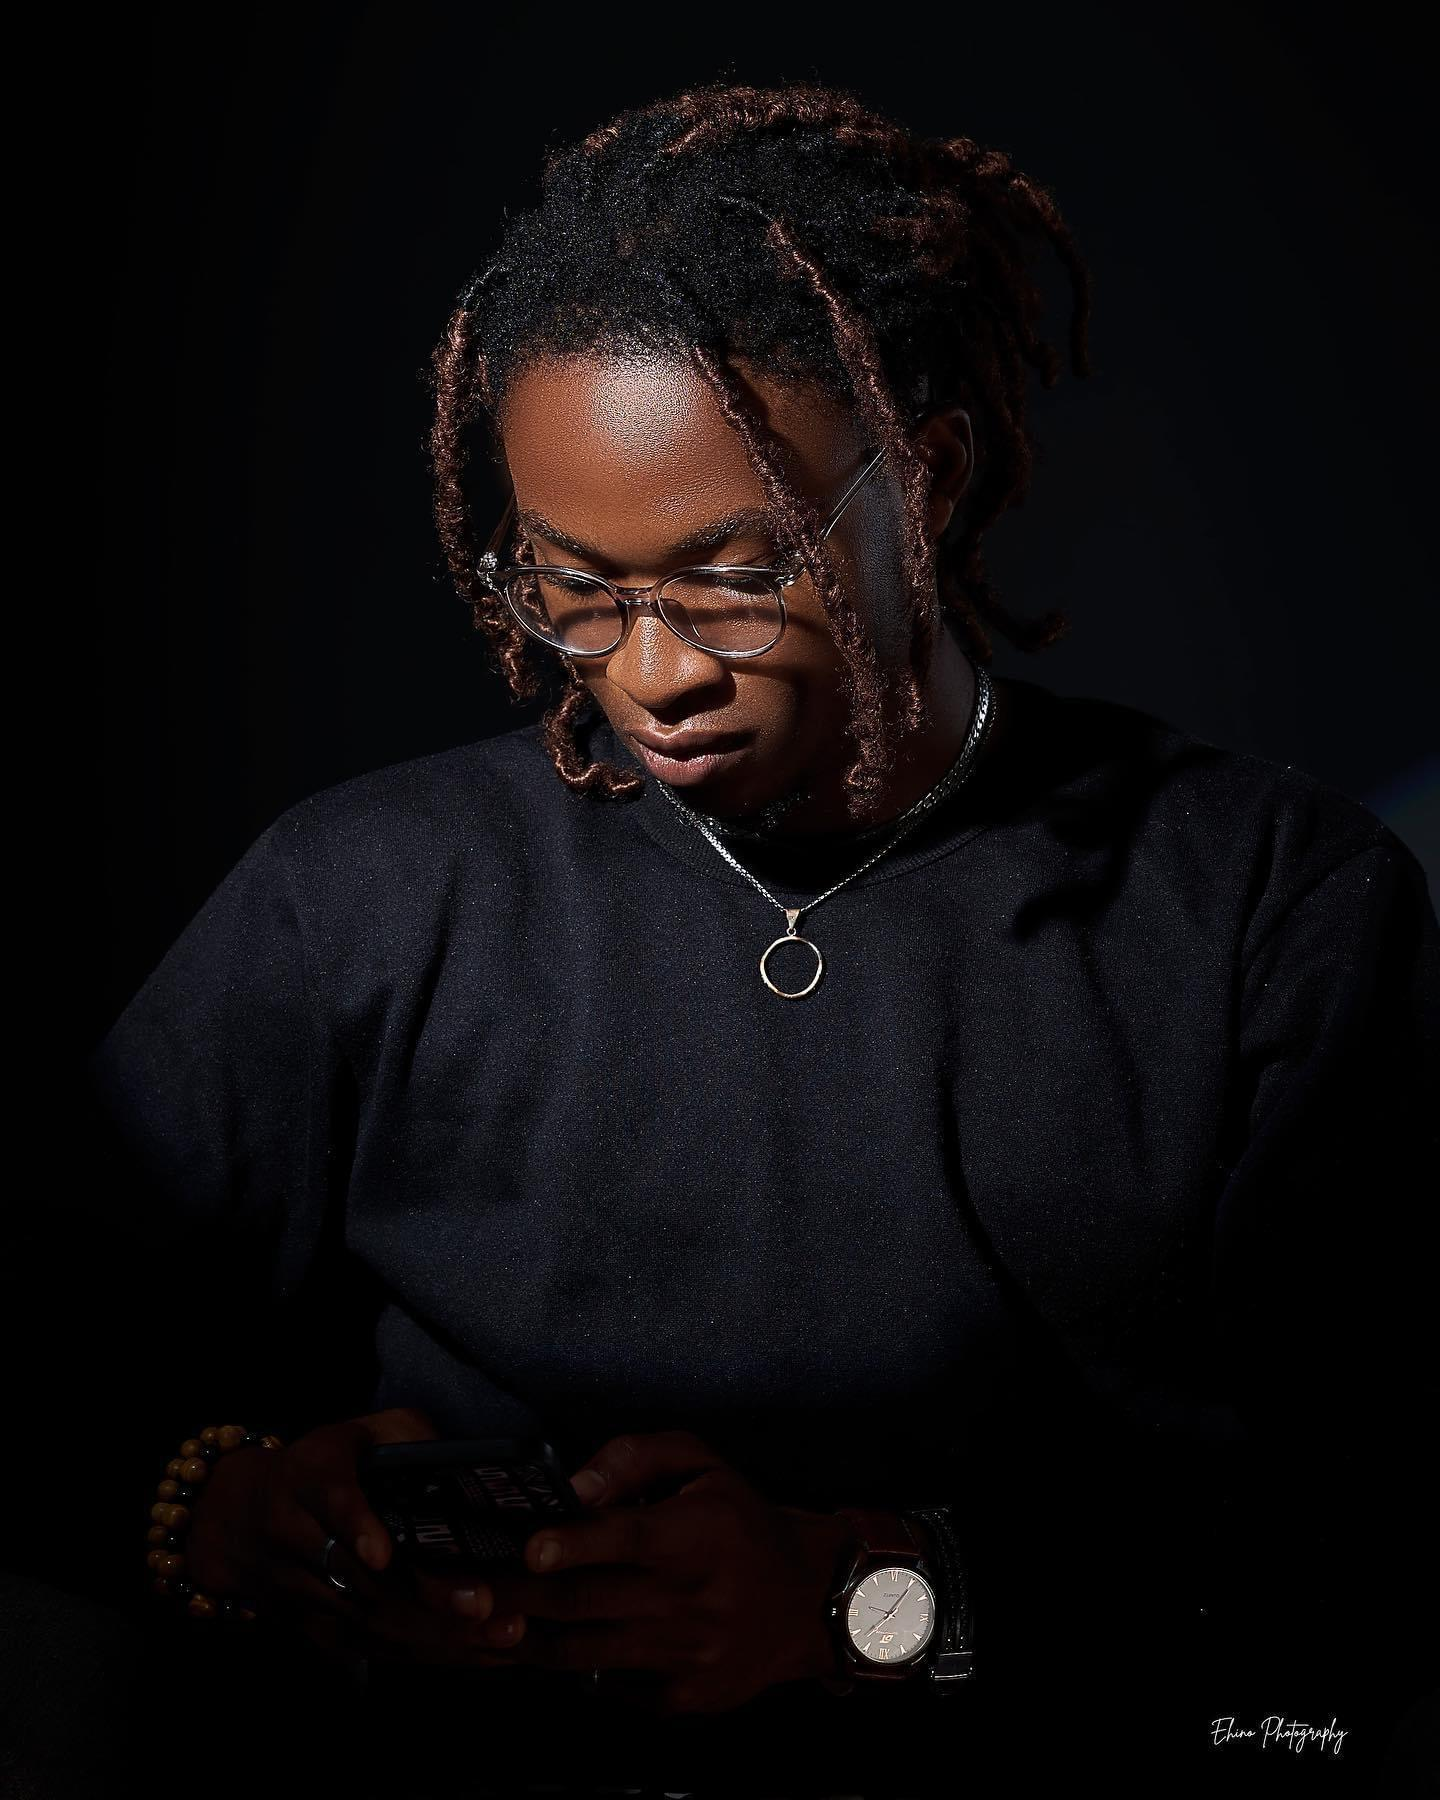
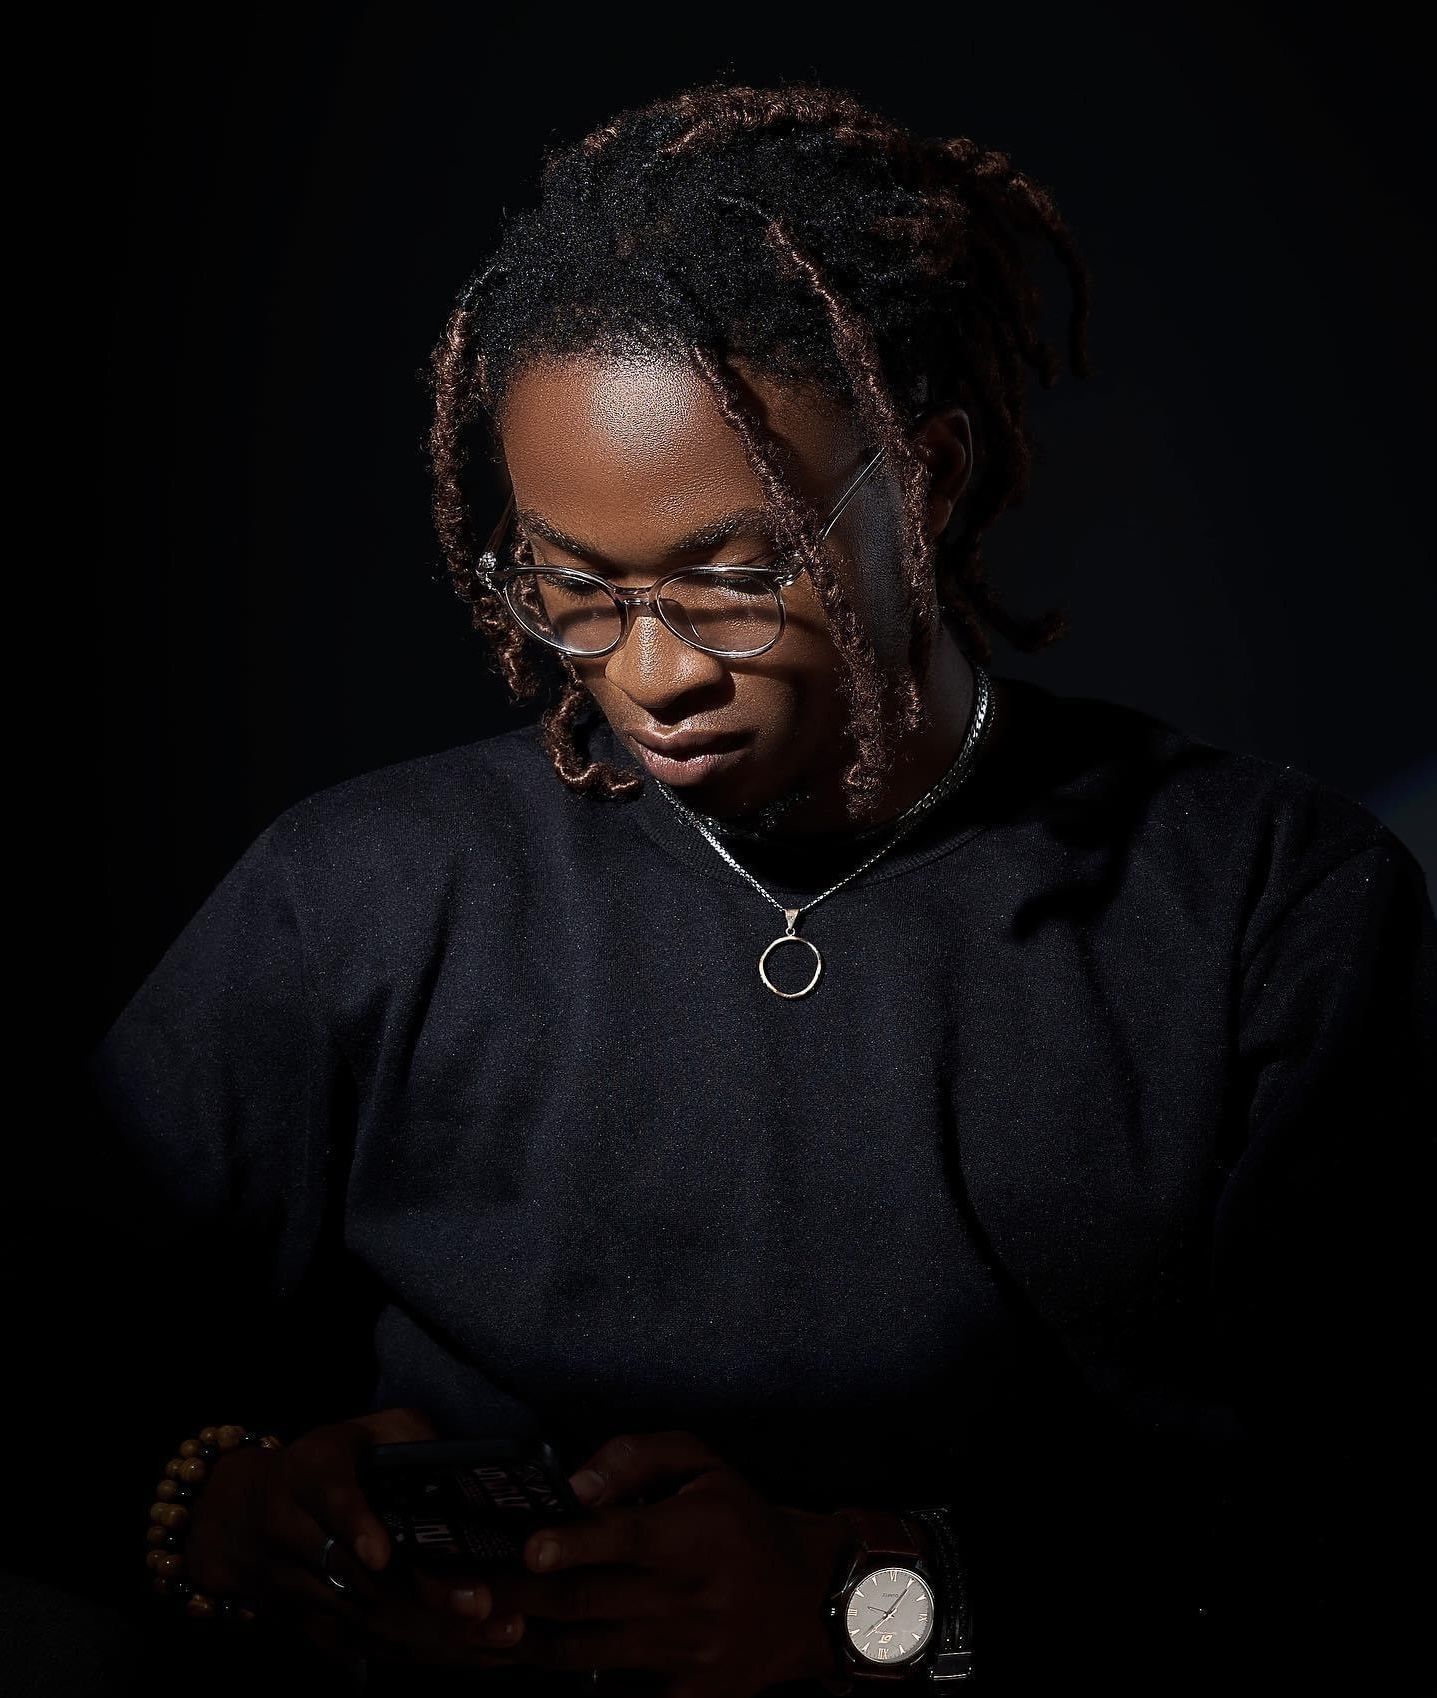
New update

diff --git a/js/portfolio.js b/js/portfolio.js
@@ -2,12 +2,10 @@ const portfolioData = [
   { name: "Abel", tag: "Keyframe & Storyboard", category: "keyframe", image: "assets/Abel Illustration.jpg" },
   { name: "M_ralda", tag: "Keyframe & Storyboard", category: "keyframe", image: "assets/M_ralda Illustration.jpg" },
   { name: "M_ralda", tag: "Keyframe & Storyboard", category: "keyframe", image: "assets/New Keyframe.jpg" },
-  { name: "Xaona", tag: "Keyframe & Storyboard", category: "keyframe", image: "assets/New Keyframe2.jpg" },
-  { name: "Xaona", tag: "Promotional", category: "promotional", image: "assets/New Keyframe2.jpg" },
+  { name: "Jyamelah and Jha'kendr", tag: "Keyframe & Storyboard", category: "keyframe", image: "assets/New Keyframe2.jpg" },
+  { name: "Jyamelah and Jha'kendr", tag: "Promotional", category: "promotional", image: "assets/New Keyframe2.jpg" },
   { name: "M_ralda", tag: "Promotional", category: "promotional", image: "assets/New Keyframe.jpg" },
   { name: "Jyamelah", tag: "Promotional", category: "promotional", image: "assets/Jyamelah- Pin up.jpg" },
-  { name: "All Character", tag: "Book Cover", category: "bookcover", image: "assets/Book.png" },
-  { name: "Iron Verse #4", tag: "Comic Books", category: "comic", image: "assets/Abel Illustration.jpg" },
   { name: "Dailida", tag: "Character Design", category: "character", image: "assets/CharacterDesign 06(Dailida).jpg" },
   { name: "Abel", tag: "Character Design", category: "character", image: "assets/Abel Detailed.jpg" },
   { name: "J'yamelah", tag: "Character Design", category: "character", image: "assets/J'yamelah Detailed.jpg" },
@@ -33,6 +31,14 @@ const lightboxName = document.getElementById('lightboxName');
 const lightboxClose = document.getElementById('lightboxClose');
 const lightboxPrev = document.getElementById('lightboxPrev');
 const lightboxNext = document.getElementById('lightboxNext');
+const galleryGrid = document.getElementById('galleryGrid');
+const galleryEmpty = document.getElementById('galleryEmpty');
+const galleryEmptyBtn = document.getElementById('galleryEmptyBtn');
+
+const emptyStateDisciplines = {
+  bookcover: { discipline: "bookcover", package: "Basic Illustration Package" },
+  comic: { discipline: "comic", package: "Basic Comic Package" }
+};
 
 let visibleIndices = portfolioData.map((_, i) => i);
 let currentPos = 0;
@@ -116,10 +122,20 @@ filterBtns.forEach(btn => {
     const filter = btn.dataset.filter;
     updateVisibleIndices(filter);
 
-    document.querySelectorAll('.gallery-item').forEach(item => {
-      const match = filter === 'all' || item.dataset.category === filter;
-      item.classList.toggle('hidden', !match);
-    });
+    if (emptyStateDisciplines[filter]) {
+      galleryGrid.style.display = 'none';
+      galleryEmpty.classList.add('show');
+      const { discipline, package: pkg } = emptyStateDisciplines[filter];
+      galleryEmptyBtn.href = `start-project.html?discipline=${discipline}&package=${encodeURIComponent(pkg)}`;
+    } else {
+      galleryGrid.style.display = 'grid';
+      galleryEmpty.classList.remove('show');
+
+      document.querySelectorAll('.gallery-item').forEach(item => {
+        const match = filter === 'all' || item.dataset.category === filter;
+        item.classList.toggle('hidden', !match);
+      });
+    }
   });
 });
 

diff --git a/css/style.css b/css/style.css
@@ -3214,9 +3214,9 @@
    ============================================ */
    @media (max-width: 900px) {
     .explore-frame {
-      height: auto !important;
+      height: 100vh !important;
       min-height: 100vh;
-      overflow-y: auto;
+      overflow-y: auto !important;
     }
   
     .explore-content {
@@ -3326,15 +3326,14 @@
 }
 
 .gallery-grid {
-  column-count: 4;
-  column-gap: 18px;
+  display: grid;
+  grid-template-columns: repeat(4, 1fr);
+  gap: 18px;
 }
 
 .gallery-item {
   position: relative;
-  break-inside: avoid;
-  margin-bottom: 18px;
-  border-radius: 8px;
+  border-radius: 12px;
   overflow: hidden;
   cursor: pointer;
   background: #111;
@@ -3389,15 +3388,9 @@
 }
 
 @media (max-width: 900px) {
-  .gallery-page {
-    padding: 32px 24px 40px;
-  }
   .gallery-grid {
-    column-count: 2;
-    column-gap: 12px;
-  }
-  .gallery-item {
-    margin-bottom: 12px;
+    grid-template-columns: repeat(2, 1fr);
+    gap: 12px;
   }
 }
 
@@ -3538,5 +3531,81 @@
   .lightbox-close {
     top: 16px;
     right: 16px;
+  }
+}
+
+.portfolio-hero {
+  position: relative;
+  padding: 80px 64px 48px;
+  text-align: center;
+  overflow: hidden;
+}
+
+.portfolio-hero-bg {
+  position: absolute;
+  inset: 0;
+  width: 100%;
+  height: 100%;
+  object-fit: cover;
+  object-position: center 20%;
+  opacity: 0.5;
+}
+
+.portfolio-hero-fade {
+  position: absolute;
+  inset: 0;
+  background: radial-gradient(ellipse at center, rgba(11,9,8,0.3) 30%, rgba(11,9,8,0.9) 100%);
+}
+
+.portfolio-hero-content {
+  position: relative;
+  z-index: 2;
+}
+
+.portfolio-hero-content h1 {
+  font-family: var(--font-display);
+  font-weight: 700;
+  font-size: 44px;
+  color: var(--white);
+}
+
+@media (max-width: 900px) {
+  .portfolio-hero {
+    padding: 56px 24px 32px;
+  }
+  .portfolio-hero-content h1 {
+    font-size: 32px;
+  }
+}
+
+.gallery-empty {
+  display: none;
+  text-align: center;
+  padding: 100px 24px;
+  max-width: 480px;
+  margin: 0 auto;
+}
+
+.gallery-empty.show {
+  display: block;
+}
+
+.gallery-empty h3 {
+  font-family: var(--font-display);
+  font-size: 28px;
+  color: var(--white);
+  margin-bottom: 16px;
+}
+
+.gallery-empty p {
+  font-family: var(--font-body);
+  font-size: 15px;
+  color: rgba(255,255,255,0.6);
+  margin-bottom: 32px;
+}
+
+@media (max-width: 900px) {
+  .gallery-empty {
+    padding: 60px 24px;
   }
 }

diff --git a/portfolio.html b/portfolio.html
@@ -38,11 +38,14 @@
 
   <div class="page-scroll">
 
-    <section class="gallery-page">
-      <div class="gallery-header">
-        <span class="cs-eyebrow">Our Work</span>
-        <h1 class="cs-title">Portfolio</h1>
+    <section class="portfolio-hero">
+      <img src="assets/Painting Study 25-06-23 copy.jpg" alt="" class="portfolio-hero-bg">
+      <div class="portfolio-hero-fade"></div>
+      <div class="portfolio-hero-content">
+        <span class="about-tag">Our Work</span>
+        <h1>Portfolio</h1>
       </div>
+    </section>
 
       <div class="gallery-filters" id="galleryFilters">
         <div class="gallery-filter-indicator" id="filterIndicator"></div>
@@ -55,6 +58,11 @@
       </div>
 
       <div class="gallery-grid" id="galleryGrid"></div>
+        <div class="gallery-empty" id="galleryEmpty">
+          <h3>This space could be yours</h3>
+          <p>We haven't added work to this category yet — but your project could be the first.</p>
+          <a href="#" class="about-btn-solid" id="galleryEmptyBtn">Get This →</a>
+        </div>
     </section>
 
     <footer class="site-footer-dark">
